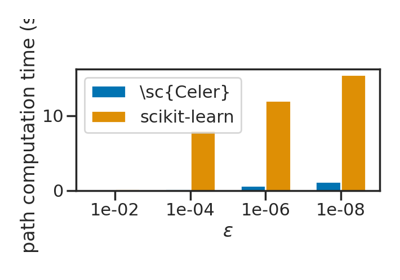
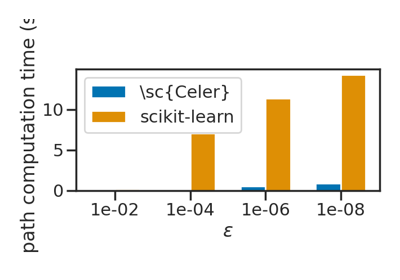
Generate Pelican site [ci skip]

diff --git a/auto_examples/plot_leukemia_path.html b/auto_examples/plot_leukemia_path.html
@@ -123,7 +123,7 @@ dataset which is a dense dataset.</p>
 <div class="sphx-glr-script-out highlight-none notranslate"><div class="highlight"><pre><span></span>Loading data...
 Starting path computation...
 Celer time: 0.03 s
-Celer time: 0.18 s
+Celer time: 0.16 s
 /home/circleci/.local/lib/python3.8/site-packages/sklearn/linear_model/_coordinate_descent.py:529: ConvergenceWarning: Objective did not converge. You might want to increase the number of iterations. Duality gap: 0.008778628904757557, tolerance: 0.007200000000000005
   model = cd_fast.enet_coordinate_descent(
 /home/circleci/.local/lib/python3.8/site-packages/sklearn/linear_model/_coordinate_descent.py:529: ConvergenceWarning: Objective did not converge. You might want to increase the number of iterations. Duality gap: 0.010492050372519213, tolerance: 0.007200000000000005
@@ -140,7 +140,7 @@ Celer time: 0.18 s
   model = cd_fast.enet_coordinate_descent(
 /home/circleci/.local/lib/python3.8/site-packages/sklearn/linear_model/_coordinate_descent.py:529: ConvergenceWarning: Objective did not converge. You might want to increase the number of iterations. Duality gap: 0.011756282285240616, tolerance: 0.007200000000000005
   model = cd_fast.enet_coordinate_descent(
-Celer time: 0.63 s
+Celer time: 0.57 s
 /home/circleci/.local/lib/python3.8/site-packages/sklearn/linear_model/_coordinate_descent.py:529: ConvergenceWarning: Objective did not converge. You might want to increase the number of iterations. Duality gap: 7.642283545150619e-05, tolerance: 7.200000000000004e-05
   model = cd_fast.enet_coordinate_descent(
 /home/circleci/.local/lib/python3.8/site-packages/sklearn/linear_model/_coordinate_descent.py:529: ConvergenceWarning: Objective did not converge. You might want to increase the number of iterations. Duality gap: 0.00028090672920200177, tolerance: 7.200000000000004e-05
@@ -185,7 +185,7 @@ Celer time: 0.63 s
   model = cd_fast.enet_coordinate_descent(
 /home/circleci/.local/lib/python3.8/site-packages/sklearn/linear_model/_coordinate_descent.py:529: ConvergenceWarning: Objective did not converge. You might want to increase the number of iterations. Duality gap: 0.011950366675567592, tolerance: 7.200000000000004e-05
   model = cd_fast.enet_coordinate_descent(
-Celer time: 1.22 s
+Celer time: 0.90 s
 /home/circleci/.local/lib/python3.8/site-packages/sklearn/linear_model/_coordinate_descent.py:529: ConvergenceWarning: Objective did not converge. You might want to increase the number of iterations. Duality gap: 3.6916061612046747e-06, tolerance: 7.200000000000004e-07
   model = cd_fast.enet_coordinate_descent(
 /home/circleci/.local/lib/python3.8/site-packages/sklearn/linear_model/_coordinate_descent.py:529: ConvergenceWarning: Objective did not converge. You might want to increase the number of iterations. Duality gap: 5.5790209056993945e-06, tolerance: 7.200000000000004e-07
@@ -307,7 +307,7 @@ usetex mode requires TeX.
 <a href="https://matplotlib.org/api/_as_gen/matplotlib.pyplot.show.html#matplotlib.pyplot.show" title="matplotlib.pyplot.show" class="sphx-glr-backref-module-matplotlib-pyplot sphx-glr-backref-type-py-function"><span class="n">plt</span><span class="o">.</span><span class="n">show</span></a><span class="p">()</span>
 </pre></div>
 </div>
-<p class="sphx-glr-timing"><strong>Total running time of the script:</strong> ( 0 minutes  38.133 seconds)</p>
+<p class="sphx-glr-timing"><strong>Total running time of the script:</strong> ( 0 minutes  34.876 seconds)</p>
 <div class="sphx-glr-footer class sphx-glr-footer-example docutils container" id="sphx-glr-download-auto-examples-plot-leukemia-path-py">
 <div class="sphx-glr-download sphx-glr-download-python docutils container">
 <p><a class="reference download internal" download="" href="../_downloads/d9bbde0ed1b1cfc51a36d178d2a7df06/plot_leukemia_path.py"><code class="xref download docutils literal notranslate"><span class="pre">Download</span> <span class="pre">Python</span> <span class="pre">source</span> <span class="pre">code:</span> <span class="pre">plot_leukemia_path.py</span></code></a></p>

diff --git a/auto_examples/sg_execution_times.html b/auto_examples/sg_execution_times.html
@@ -111,7 +111,7 @@
   
   <div class="section" id="computation-times">
 <span id="sphx-glr-auto-examples-sg-execution-times"></span><h1>Computation times<a class="headerlink" href="#computation-times" title="Permalink to this headline">¶</a></h1>
-<p><strong>00:43.464</strong> total execution time for <strong>auto_examples</strong> files:</p>
+<p><strong>00:40.176</strong> total execution time for <strong>auto_examples</strong> files:</p>
 <table class="docutils align-default">
 <colgroup>
 <col style="width: 81%" />
@@ -120,15 +120,15 @@
 </colgroup>
 <tbody>
 <tr class="row-odd"><td><p><a class="reference internal" href="plot_leukemia_path.html#sphx-glr-auto-examples-plot-leukemia-path-py"><span class="std std-ref">Lasso path computation on Leukemia dataset</span></a> (<code class="docutils literal notranslate"><span class="pre">plot_leukemia_path.py</span></code>)</p></td>
-<td><p>00:38.133</p></td>
+<td><p>00:34.876</p></td>
 <td><p>0.0 MB</p></td>
 </tr>
 <tr class="row-even"><td><p><a class="reference internal" href="plot_lasso_cv.html#sphx-glr-auto-examples-plot-lasso-cv-py"><span class="std std-ref">Run LassoCV for cross-validation on Leukemia dataset</span></a> (<code class="docutils literal notranslate"><span class="pre">plot_lasso_cv.py</span></code>)</p></td>
-<td><p>00:04.859</p></td>
+<td><p>00:04.753</p></td>
 <td><p>0.0 MB</p></td>
 </tr>
 <tr class="row-odd"><td><p><a class="reference internal" href="plot_group_lasso.html#sphx-glr-auto-examples-plot-group-lasso-py"><span class="std std-ref">Run GroupLasso and GroupLasso CV for structured sparse recovery</span></a> (<code class="docutils literal notranslate"><span class="pre">plot_group_lasso.py</span></code>)</p></td>
-<td><p>00:00.472</p></td>
+<td><p>00:00.547</p></td>
 <td><p>0.0 MB</p></td>
 </tr>
 </tbody>

diff --git a/auto_examples/plot_lasso_cv.html b/auto_examples/plot_lasso_cv.html
@@ -165,7 +165,7 @@ Estimated regularization parameter alpha: 81.38126193253959
 </pre></div>
 </div>
 <img alt="plot lasso cv" class="sphx-glr-single-img" src="../_images/sphx_glr_plot_lasso_cv_001.png" />
-<p class="sphx-glr-timing"><strong>Total running time of the script:</strong> ( 0 minutes  4.859 seconds)</p>
+<p class="sphx-glr-timing"><strong>Total running time of the script:</strong> ( 0 minutes  4.753 seconds)</p>
 <div class="sphx-glr-footer class sphx-glr-footer-example docutils container" id="sphx-glr-download-auto-examples-plot-lasso-cv-py">
 <div class="sphx-glr-download sphx-glr-download-python docutils container">
 <p><a class="reference download internal" download="" href="../_downloads/060941a352d46300c399eaf21427e187/plot_lasso_cv.py"><code class="xref download docutils literal notranslate"><span class="pre">Download</span> <span class="pre">Python</span> <span class="pre">source</span> <span class="pre">code:</span> <span class="pre">plot_lasso_cv.py</span></code></a></p>

diff --git a/auto_examples/plot_group_lasso.html b/auto_examples/plot_group_lasso.html
@@ -208,7 +208,7 @@ GroupLasso(alpha=1.1, groups=5)
 </pre></div>
 </div>
 <img alt="plot group lasso" class="sphx-glr-single-img" src="../_images/sphx_glr_plot_group_lasso_003.png" />
-<p class="sphx-glr-timing"><strong>Total running time of the script:</strong> ( 0 minutes  0.472 seconds)</p>
+<p class="sphx-glr-timing"><strong>Total running time of the script:</strong> ( 0 minutes  0.547 seconds)</p>
 <div class="sphx-glr-footer class sphx-glr-footer-example docutils container" id="sphx-glr-download-auto-examples-plot-group-lasso-py">
 <div class="sphx-glr-download sphx-glr-download-python docutils container">
 <p><a class="reference download internal" download="" href="../_downloads/433d4b2ff389555700f26fe734f79b9a/plot_group_lasso.py"><code class="xref download docutils literal notranslate"><span class="pre">Download</span> <span class="pre">Python</span> <span class="pre">source</span> <span class="pre">code:</span> <span class="pre">plot_group_lasso.py</span></code></a></p>
